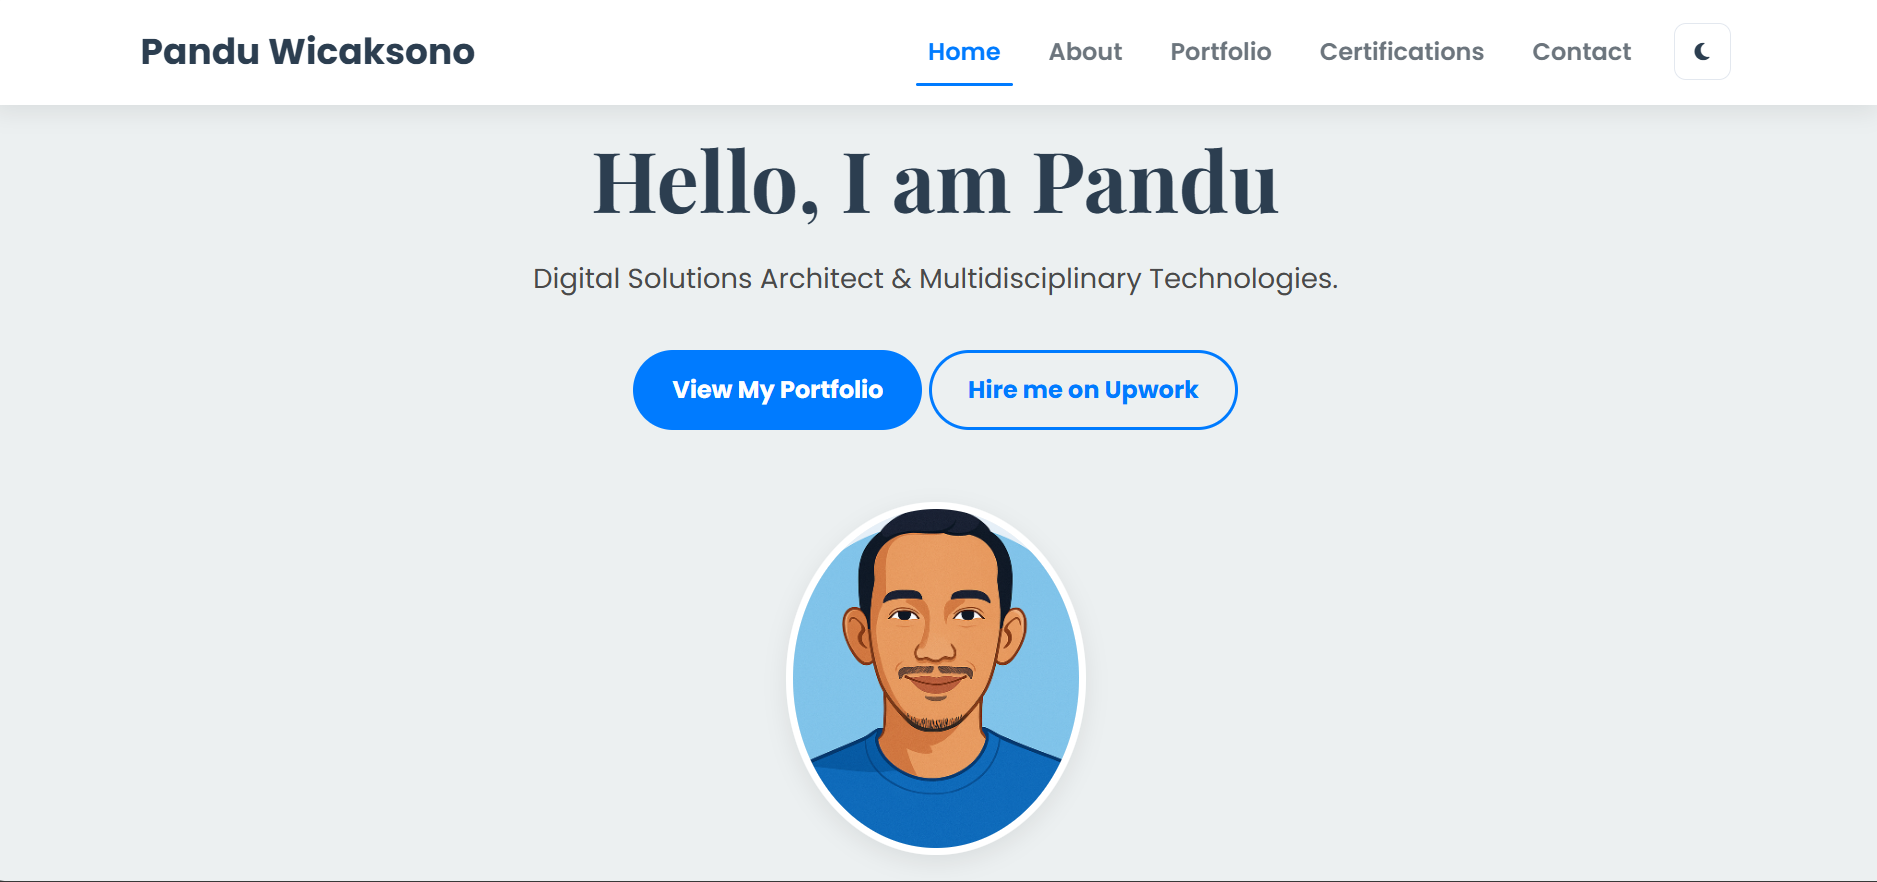
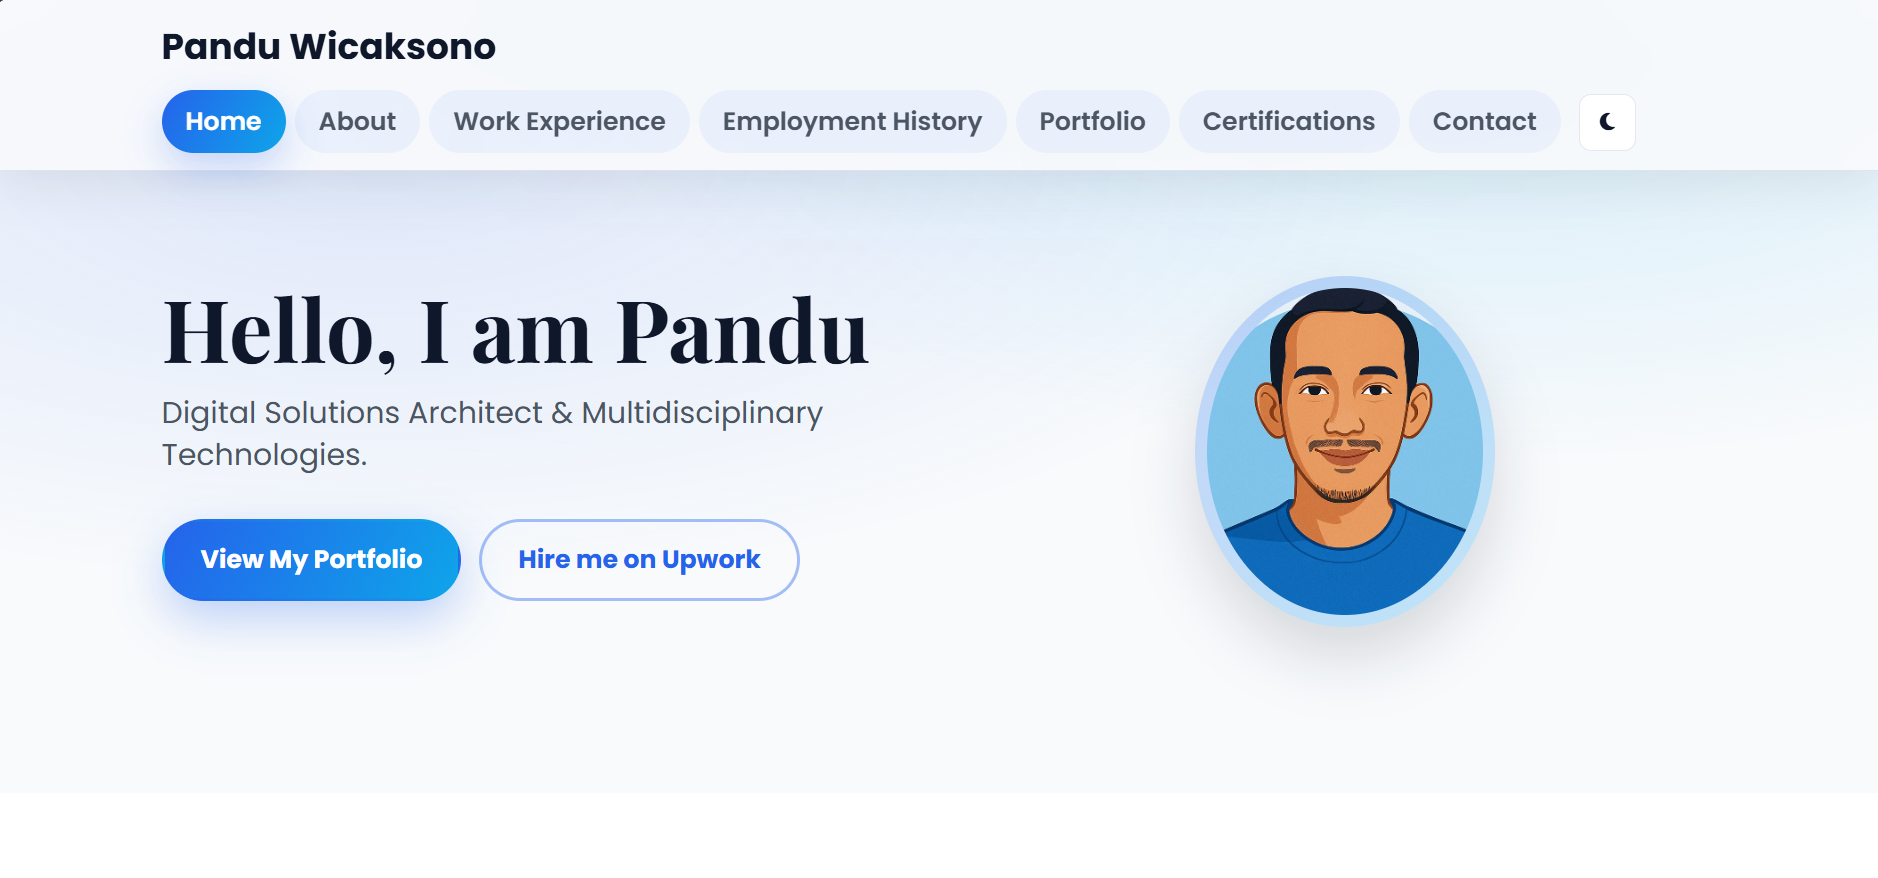
first commit

diff --git a/assets/css/style.css b/assets/css/style.css
@@ -13,6 +13,8 @@
     --light-color: #f8fafc;
     --white-color: #ffffff;
     --shadow: 0 10px 30px rgba(15, 23, 42, 0.12);
+    --section-spacing: clamp(60px, 8vw, 120px);
+    --content-gutter: clamp(18px, 4vw, 32px);
 }
 
 /* Dark theme */
@@ -37,6 +39,8 @@ body {
     font-family: 'Poppins', sans-serif;
     line-height: 1.6;
     color: var(--dark-color);
+    font-size: clamp(0.95rem, 0.3vw + 0.9rem, 1.05rem);
+    overflow-x: hidden;
     background: radial-gradient(140% 140% at 10% 10%, rgba(37, 99, 235, 0.08), transparent 40%),
                 radial-gradient(120% 120% at 90% 20%, rgba(14, 165, 233, 0.08), transparent 38%),
                 var(--light-color);
@@ -52,7 +56,7 @@ h1, h2 {
 .container {
     max-width: 1100px;
     margin: 0 auto;
-    padding: 0 20px;
+    padding: 0 var(--content-gutter);
 }
 
 .sr-only {
@@ -67,15 +71,27 @@ h1, h2 {
     border: 0;
 }
 
+p,
+li {
+    overflow-wrap: anywhere;
+}
+
+img {
+    max-width: 100%;
+    height: auto;
+    display: block;
+}
+
 /* Gaya Header */
 .header {
     background: rgba(248, 250, 252, 0.9);
-    padding: 0.75rem 0;
+    padding: clamp(0.5rem, 1vw, 0.85rem) 0;
     position: fixed;
     width: 100%;
     top: 0;
     z-index: 1000;
     box-shadow: 0 10px 30px rgba(15, 23, 42, 0.08);
+    -webkit-backdrop-filter: blur(10px);
     backdrop-filter: blur(10px);
     border-bottom: 1px solid rgba(148, 163, 184, 0.25);
 }
@@ -284,16 +300,17 @@ h1, h2 {
 
 /* Gaya untuk setiap section */
 section {
-    padding: 100px 0;
+    padding: var(--section-spacing) 0;
     text-align: center;
 }
 
 h2 {
-    font-size: 2.8rem;
+    font-size: clamp(2rem, 1.2vw + 1.8rem, 2.8rem);
     margin-bottom: 2rem;
     font-weight: 700;
     position: relative;
     display: inline-block;
+    line-height: 1.25;
 }
 
 h2::after {
@@ -309,15 +326,16 @@ h2::after {
 }
 
 h3 {
-    font-size: 1.5rem;
+    font-size: clamp(1.2rem, 0.8vw + 1rem, 1.5rem);
     margin-bottom: 1rem;
     font-weight: 600;
+    line-height: 1.4;
 }
 
 #hero {
     position: relative;
-    padding-top: 140px;
-    min-height: 100vh;
+    padding-top: clamp(110px, 16vw, 160px);
+    min-height: clamp(520px, 90vh, 820px);
     display: flex;
     align-items: center;
     justify-content: center;
@@ -342,10 +360,9 @@ h3 {
     z-index: 1;
     display: grid;
     grid-template-columns: repeat(auto-fit, minmax(280px, 1fr));
-    gap: 2.5rem;
+    gap: clamp(1.5rem, 4vw, 3rem);
     align-items: center;
     width: 100%;
-    padding: 0 1.25rem;
 }
 
 .hero-image {
@@ -355,7 +372,7 @@ h3 {
 }
 
 .hero-image img {
-    max-width: 220px;
+    max-width: clamp(160px, 35vw, 240px);
     height: auto;
     display: block;
     border-radius: 50%;
@@ -368,6 +385,7 @@ h3 {
     max-width: 560px;
     overflow-wrap: anywhere;
     word-break: break-word;
+    text-align: left;
 }
 
 .hero-title {
@@ -409,12 +427,12 @@ h3 {
 
 .about-content p {
     margin-bottom: 2rem;
-    font-size: 1.1rem;
+    font-size: clamp(1rem, 0.2vw + 0.95rem, 1.1rem);
 }
 
 .skills-grid {
     display: grid;
-    grid-template-columns: repeat(auto-fit, minmax(280px, 1fr));
+    grid-template-columns: repeat(auto-fit, minmax(260px, 1fr));
     gap: 2rem;
     margin-top: 2rem;
 }
@@ -458,7 +476,7 @@ h3 {
 
 .experience-grid {
     display: grid;
-    grid-template-columns: repeat(auto-fit, minmax(320px, 1fr));
+    grid-template-columns: repeat(auto-fit, minmax(260px, 1fr));
     gap: 2rem;
     margin-top: 1.5rem;
 }
@@ -507,7 +525,7 @@ h3 {
 /* Gaya Section Portfolio */
 .portfolio-grid {
     display: grid;
-    grid-template-columns: repeat(auto-fit, minmax(300px, 1fr));
+    grid-template-columns: repeat(auto-fit, minmax(240px, 1fr));
     gap: 2rem;
 }
 
@@ -573,7 +591,7 @@ h3 {
 
 .certification-grid {
     display: grid;
-    grid-template-columns: repeat(auto-fit, minmax(280px, 1fr));
+    grid-template-columns: repeat(auto-fit, minmax(220px, 1fr));
     gap: 2rem;
     text-align: center;
 }
@@ -719,66 +737,72 @@ h3 {
 
 /* Media Queries untuk Responsivitas */
 @media (max-width: 768px) {
+    .header {
+        padding: 0.45rem 0;
+    }
+
     .header .container {
-        flex-direction: column;
-        text-align: center;
+        flex-direction: row;
+        align-items: center;
+        justify-content: space-between;
+        flex-wrap: nowrap;
+        text-align: left;
+        gap: 0.5rem;
+    }
+
+    .header-actions {
+        gap: 8px;
     }
 
     .logo {
-        margin-bottom: 1rem;
+        margin-bottom: 0;
+        font-size: 1.2rem;
     }
 
     .nav-menu {
-        width: 100%;
-        overflow-x: auto;
-        padding-bottom: 5px;
-    }
-
-    /* Improve scrolling behavior on touch devices without vendor-specific property */
-    .nav-menu ul {
-        overscroll-behavior-x: contain;
+        left: 20px;
+        right: 20px;
+        width: calc(100% - 40px);
+        max-height: calc(100vh - 110px);
+        overflow-y: auto;
     }
 
     .nav-menu ul {
-        justify-content: flex-start;
-        flex-wrap: nowrap;
+        flex-direction: column;
+        gap: 6px;
     }
 
     .nav-menu ul li {
-        flex: 0 0 auto;
-        white-space: nowrap;
+        width: 100%;
     }
     
     .nav-menu ul li a {
-        padding: 0.5rem 0.75rem;
-    }
-
-    .nav-menu::-webkit-scrollbar {
-        display: none;
-    }
-
-    #hero .container {
-        flex-direction: column;
-        text-align: center;
-        justify-content: center;
+        width: 100%;
+        text-align: left;
+        padding: 0.85rem 1rem;
     }
 
     #hero {
-        padding-top: 90px;
-        min-height: 90vh;
+        padding-top: clamp(90px, 12vh, 120px);
+        min-height: unset;
     }
 
-    .hero-content h1 {
-        font-size: 2.1rem;
-    }
-
-    .hero-content p {
-        font-size: 0.95rem;
+    #hero .container {
+        grid-template-columns: 1fr;
+        text-align: center;
     }
 
     .hero-content {
-        align-items: center;
         text-align: center;
+        margin: 0 auto;
+    }
+
+    .hero-image {
+        margin-top: 1.5rem;
+    }
+
+    .hero-image img {
+        max-width: 180px;
     }
 
     .hero-cta {
@@ -787,29 +811,27 @@ h3 {
         gap: 10px;
     }
 
-    .hero-cta .cta-button {
-        flex: 1 1 150px;
-        text-align: center;
-        padding: 10px 14px;
+    .skills-grid,
+    .experience-grid,
+    .portfolio-grid,
+    .certification-grid {
+        grid-template-columns: 1fr;
     }
 
-    .hero-image {
-        margin-top: 1.5rem;
-    }
-
-    .hero-image img {
-        max-width: 130px;
-    }
-
-    h2 {
-        font-size: 2rem;
+    .experience-card,
+    .skill-item,
+    .portfolio-item,
+    .certification-item {
+        padding: 1.5rem;
     }
 }
 
 @media (max-width: 480px) {
-    #hero {
-        padding-top: 80px;
-        min-height: unset;
+    body {
+        font-size: 0.95rem;
+    }
+    section {
+        padding: clamp(48px, 14vw, 70px) 0;
     }
     .hero-title {
         font-size: clamp(1.9rem, 4vw + 1.1rem, 2.4rem);
@@ -828,9 +850,6 @@ h3 {
     }
     .hero-actions .cta-button {
         width: 100%;
-    }
-    #hero .container {
-        padding: 0 1rem;
     }
 }
 

diff --git a/index.html b/index.html
@@ -15,8 +15,11 @@
     <meta name="twitter:title" content="Pandu Wicaksono | Digital Solutions Architect">
     <meta name="twitter:description" content="Explore projects, skills, certifications, and contact information.">
     <meta name="twitter:image" content="assets/img/your-photo.png">
-    <meta name="theme-color" content="#007bff">
+    <meta name="theme-color" content="#007bff" media="(prefers-color-scheme: light)">
     <meta name="theme-color" content="#111418" media="(prefers-color-scheme: dark)">
+    <meta name="color-scheme" content="light dark">
+    <meta name="msapplication-navbutton-color" content="#007bff">
+    <meta name="apple-mobile-web-app-status-bar-style" content="black-translucent">
     <title>Pandu Wicaksono | Digital Solutions Architect</title>
     <link rel="stylesheet" href="assets/css/style.css">
     <link rel="preconnect" href="https://fonts.googleapis.com">
